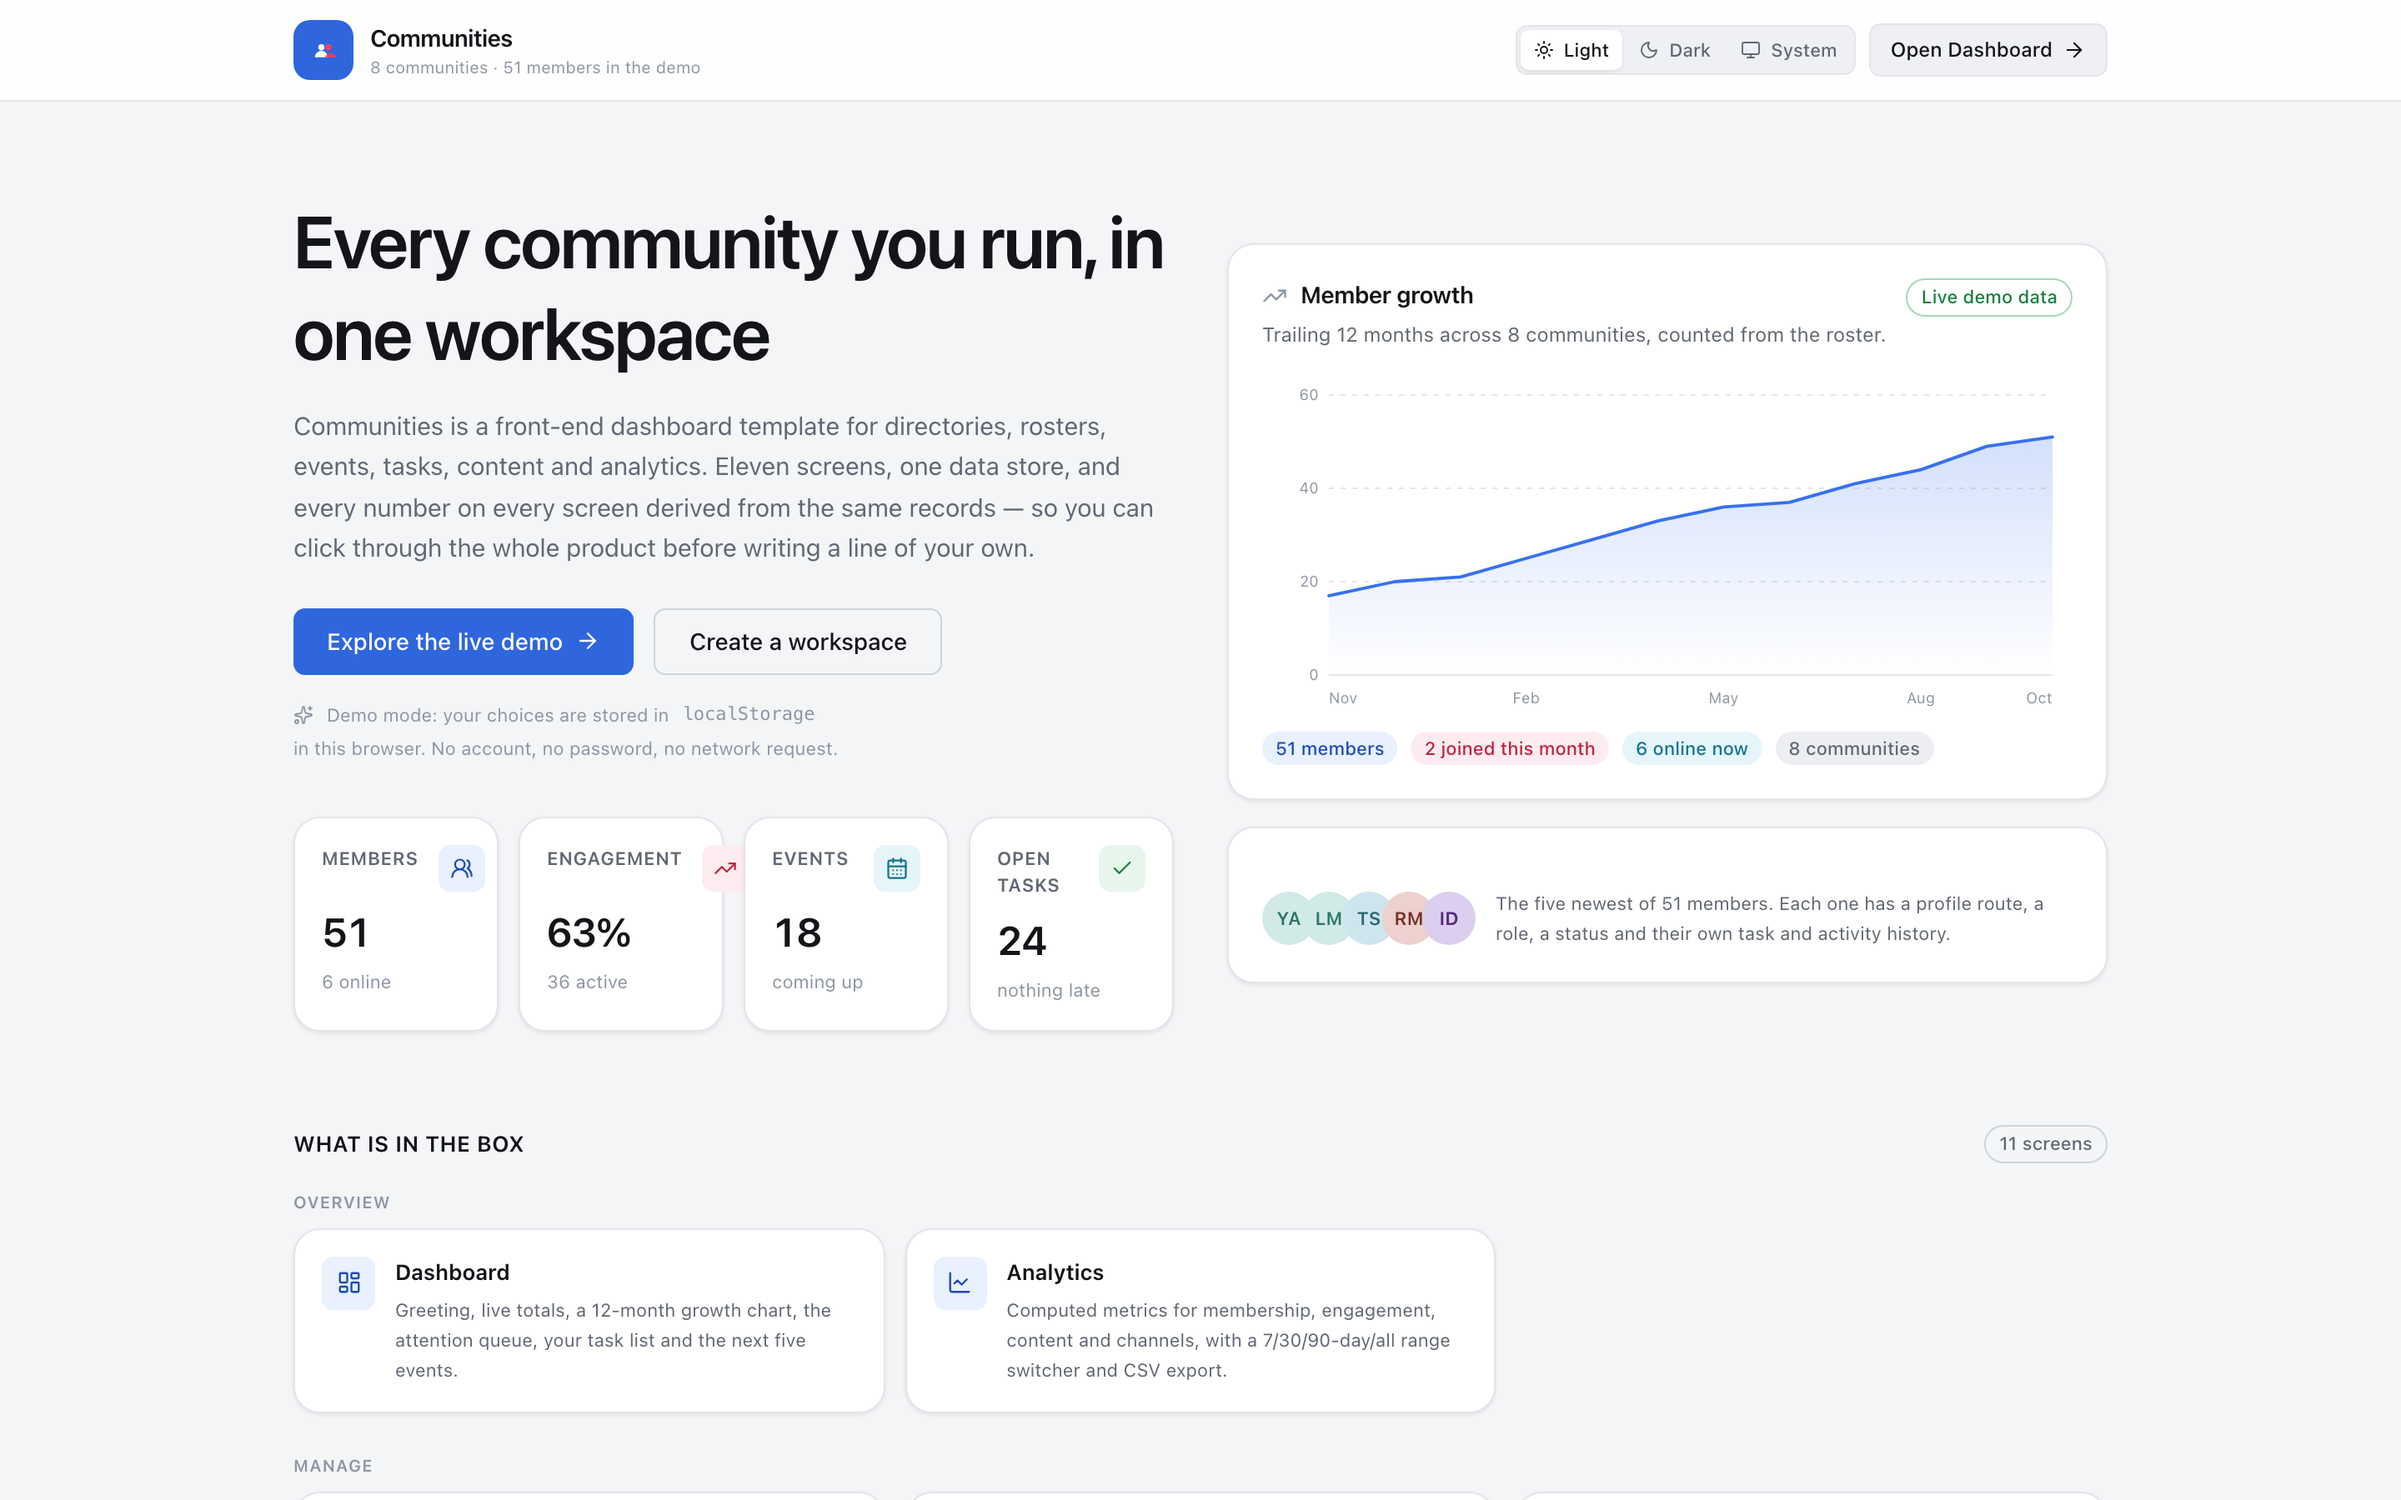
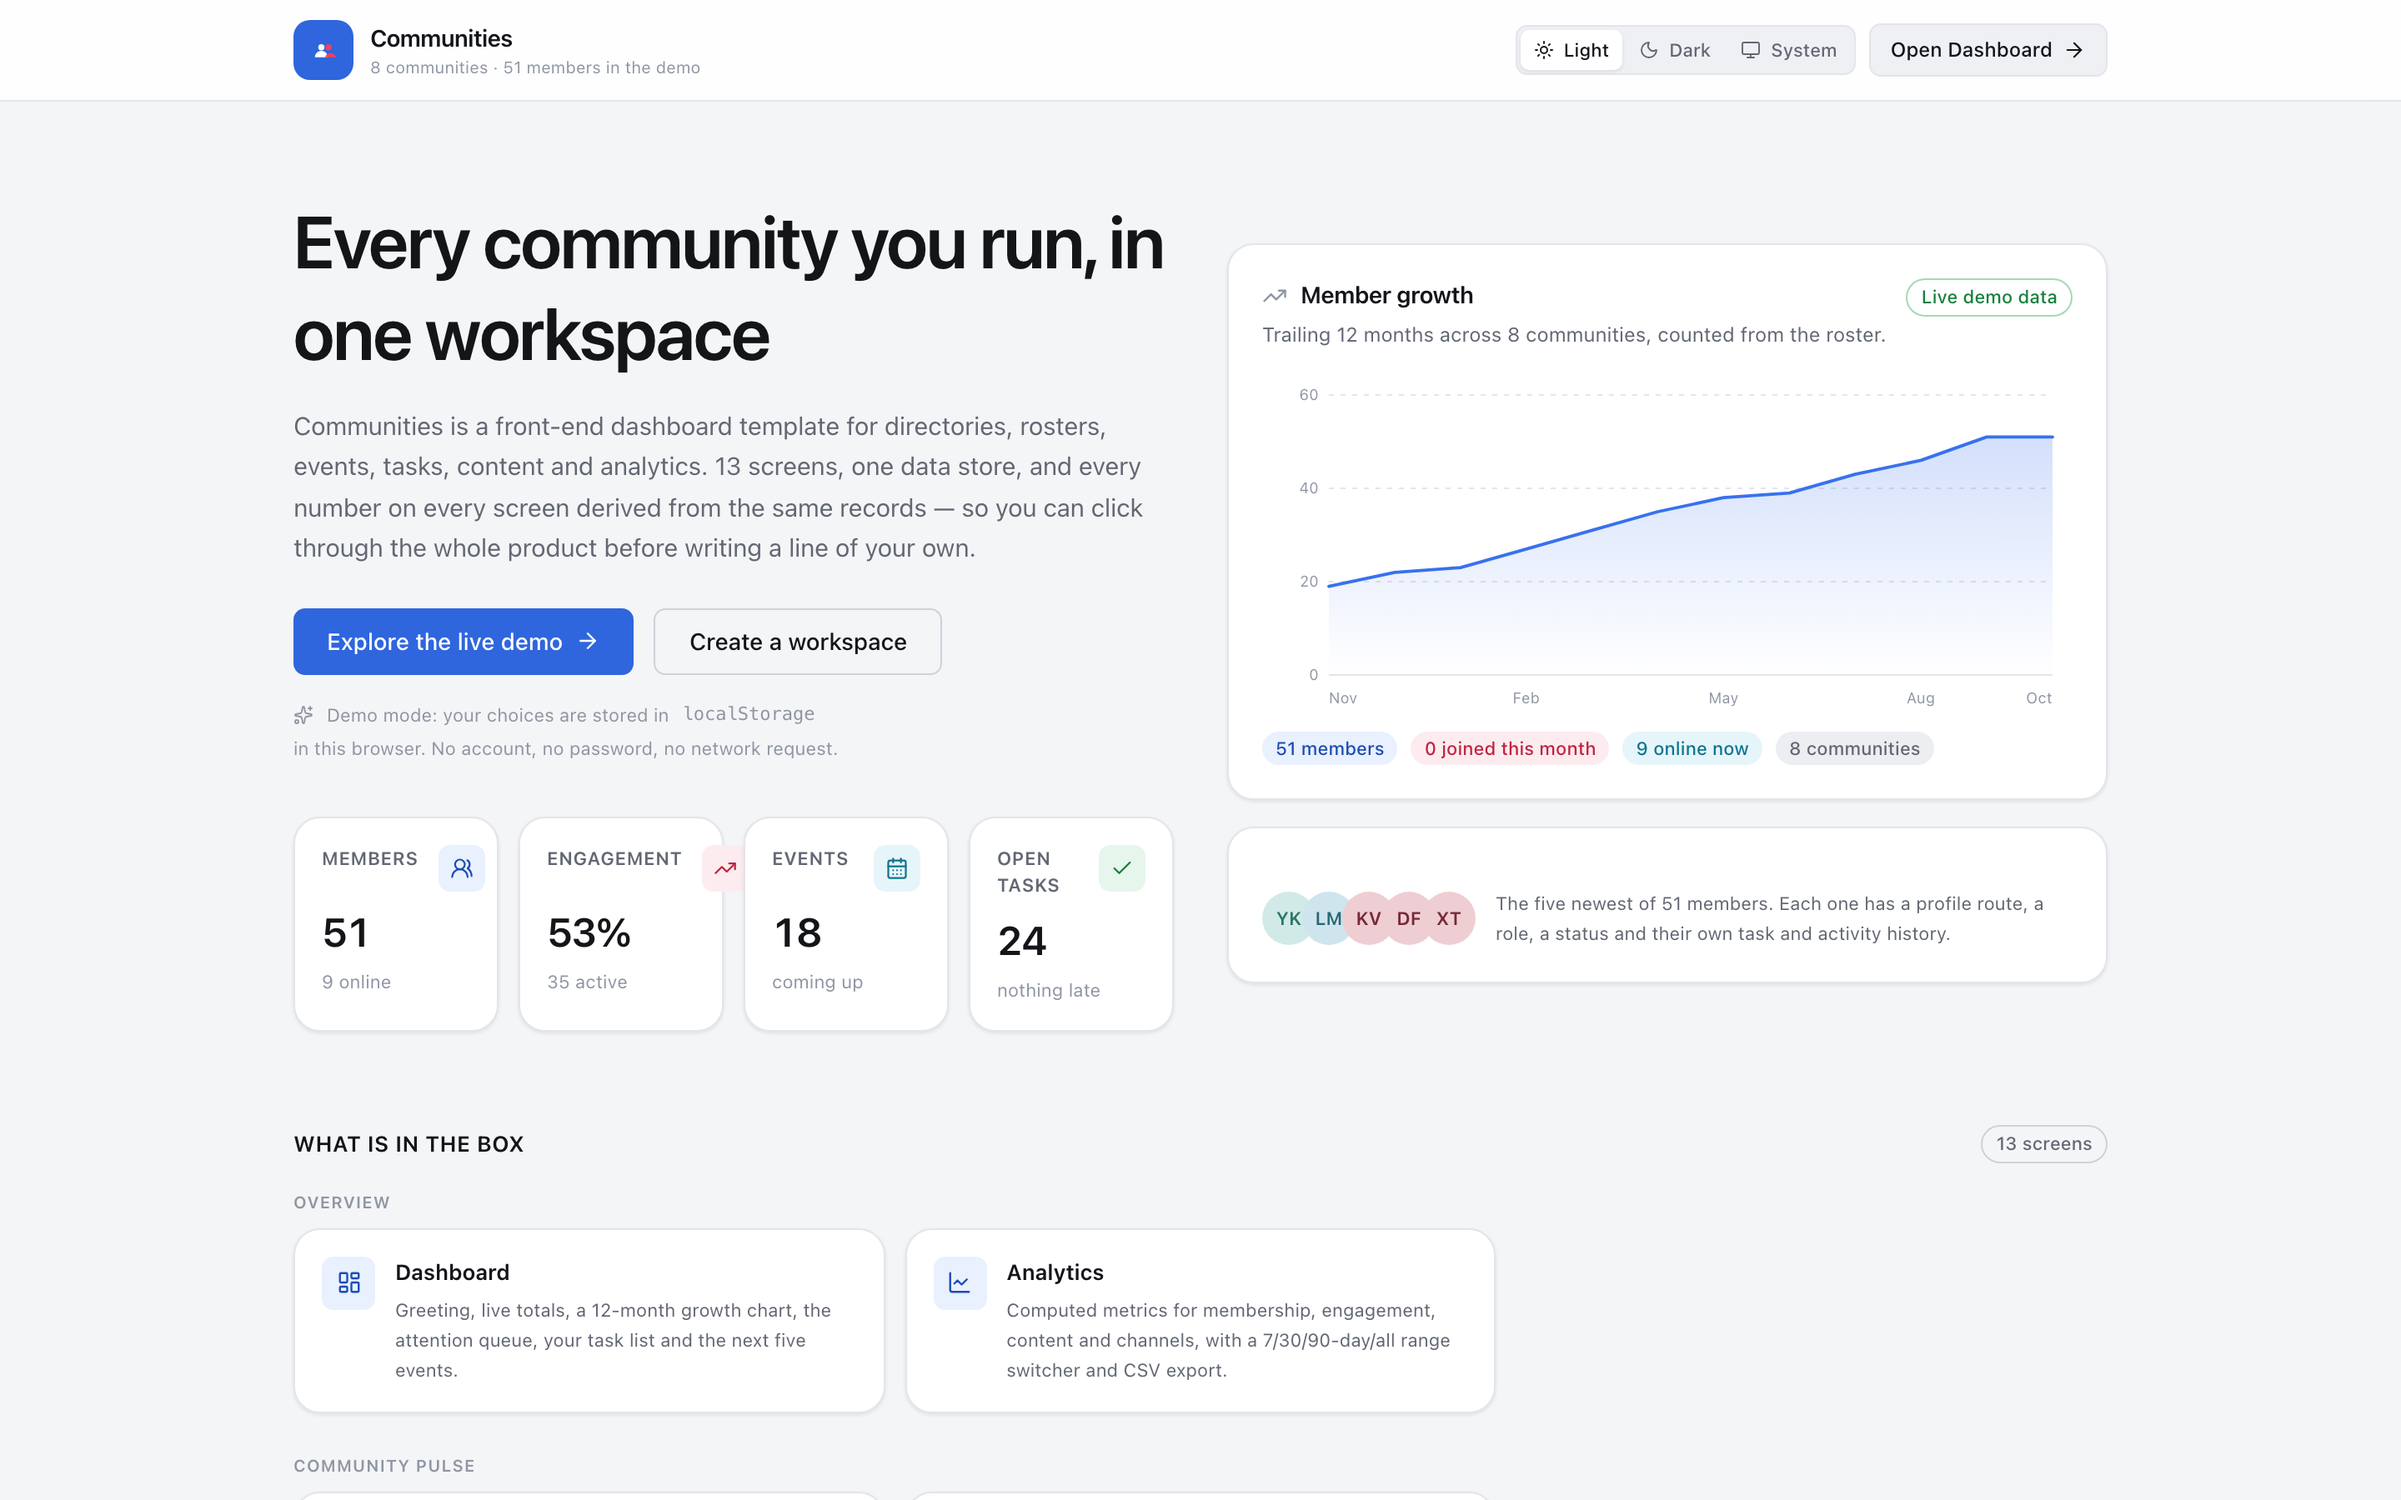
Update product preview screenshots and documentation

diff --git a/docs/ui8-submission.md b/docs/ui8-submission.md
@@ -137,28 +137,30 @@ below is rendered in the smoke run at three breakpoints.
 
 ## Suggested screenshots
 
-All 9 subjects map to files that already exist in this repository, captured by
+All 10 subjects map to files that already exist in this repository, captured by
 `npm run smoke` against the running app — not mockups, not retouched.
 
-`previews/` is the curated set shipped with the product — 90 files, all captured from the
-running app. Four page sets hold the same 20 screens numbered in tour order (`00-home` …
-`19-signup`): `desktop/` and `mobile/` in light theme (1440×900 and 390×844), `dark/` and
-`dark-mobile/` in dark theme at the same sizes. `views/` adds 10 alternate states
-(table/agenda/list views, filters, the 90-day range, the unread tab, a search, the
-new-event dialog). The complete 38-shot set per theme per breakpoint lives in `.shots/`
-and `.shots-dark/` (regenerate with the commands below).
+`previews/` is the curated set shipped with the product — 100 files, all captured from the
+running app. Four page sets hold the same 22 screens numbered in tour order (`00-home` …
+`21-signup`, with `03-health` and `04-moderation` in the Community pulse group): `desktop/`
+and `mobile/` in light theme (1440×900 and 390×844), `dark/` and `dark-mobile/` in dark theme
+at the same sizes. `views/` adds 12 alternate states (the health board filtered to at-risk,
+the moderation drawer open on a report, table/agenda/list views, filters, the 90-day range,
+the unread tab, a search and the new-event dialog). The complete 47-shot set per theme per
+breakpoint lives in `.shots/` and `.shots-dark/` (regenerate with the commands below).
 
 | # | Subject | Files |
 | --- | --- | --- |
-| 1 | Main dashboard and analytics | `desktop/01-dashboard.png`, `desktop/02-analytics.png`, `views/20-analytics-range-90d.png` |
-| 2 | Community directory and detail | `desktop/03-communities.png`, `desktop/04-community-detail.png`, `views/21-communities-table-view.png` |
-| 3 | Member management and profile | `desktop/05-members.png`, `desktop/06-member-detail.png`, `views/27-members-invited-grid-view.png` |
-| 4 | Events and calendar | `desktop/07-events.png`, `desktop/08-event-detail.png`, `views/22-events-agenda-view.png`, `views/23-events-new-event-dialog.png` |
-| 5 | Task board | `desktop/09-tasks.png`, `views/24-tasks-list-view.png`, `views/25-tasks-overdue-filter.png` |
-| 6 | Content management | `desktop/10-content.png`, `desktop/11-content-detail.png`, `views/26-content-table-draft-view.png` |
-| 7 | Light and dark themes | `desktop/18-settings-appearance.png`, `dark/01-dashboard.png`, `dark/18-settings-appearance.png`, `dark-mobile/01-dashboard.png` |
-| 8 | Responsive mobile layouts | `mobile/01-dashboard.png`, `mobile/09-tasks.png`, `dark-mobile/04-community-detail.png` — every route has both a light and a dark mobile counterpart |
-| 9 | Reusable components and customisation | `desktop/18-settings-appearance.png`, `desktop/17-settings-overview.png`, `desktop/12-collections.png`, `desktop/14-messages.png` |
+| 1 | Main dashboard and analytics | `desktop/01-dashboard.png`, `desktop/02-analytics.png`, `views/22-analytics-range-90d.png` |
+| 2 | Community pulse — health board & moderation queue | `desktop/03-health.png`, `desktop/04-moderation.png`, `views/24-health-at-risk.png`, `views/25-moderation-drawer.png` |
+| 3 | Community directory and detail | `desktop/05-communities.png`, `desktop/06-community-detail.png`, `views/23-communities-table-view.png` |
+| 4 | Member management and profile | `desktop/07-members.png`, `desktop/08-member-detail.png`, `views/28-members-invited-grid-view.png` |
+| 5 | Events and calendar | `desktop/09-events.png`, `desktop/10-event-detail.png`, `views/26-events-agenda-view.png`, `views/27-events-new-event-dialog.png` |
+| 6 | Task board | `desktop/11-tasks.png`, `views/29-tasks-list-view.png`, `views/30-tasks-overdue-filter.png` |
+| 7 | Content management | `desktop/12-content.png`, `desktop/13-content-detail.png`, `views/31-content-table-draft-view.png` |
+| 8 | Light and dark themes | `desktop/20-settings-appearance.png`, `dark/01-dashboard.png`, `dark/03-health.png`, `dark/20-settings-appearance.png` |
+| 9 | Responsive mobile layouts | `mobile/01-dashboard.png`, `mobile/04-moderation.png`, `dark-mobile/06-community-detail.png` — every route has both a light and a dark mobile counterpart |
+| 10 | Reusable components and customisation | `desktop/20-settings-appearance.png`, `desktop/19-settings-overview.png`, `desktop/14-collections.png`, `desktop/16-messages.png` |
 
 Every subject is answerable from `previews/` alone; the `.shots*` folders exist so a reviewer
 can regenerate the set rather than trust the PNGs.
@@ -219,15 +221,15 @@ Community pulse beats are the point: a moderation decision that visibly moves a 
 
 ## Files the customer receives
 
-`npm run package` writes them into `ui8-upload/` (and `ui8-upload.zip`) — 147 files, 25.3 MB,
-assembled from the allowlist at the top of `scripts/package.mjs`. The directory is source, not a
-build: the customer runs `npm install && npm run dev`.
+`npm run package` writes them into `ui8-upload/` (and `ui8-upload.zip`) — 159 files, 28.2 MB
+(zip 26.3 MB), assembled from the allowlist at the top of `scripts/package.mjs`. The directory is
+source, not a build: the customer runs `npm install && npm run dev`.
 
 ```
 index.html                  vite.config.js            package.json  package-lock.json
 README.md                   .gitignore                LICENSE (picked up automatically once it exists)
 docs/usage-guide.md       docs/ui-kit.md
-previews/                 (90 product screenshots: desktop, mobile, dark, dark-mobile, views)
+previews/                 (100 product screenshots: desktop, mobile, dark, dark-mobile, views)
 scripts/verify.mjs          scripts/smoke.mjs         scripts/package.mjs
 src/
   App.jsx  main.jsx  routes.js  index.css
@@ -295,7 +297,7 @@ Items 1–3 are blockers; 4–6 are quality signals; 7 is the author's own decis
 3. **Choose and add `LICENSE`.** `README.md` currently defers the template licence to the UI8
    listing; the marketplace needs an explicit file before review. Put it at the repository root
    and `npm run package` ships it — the packager deliberately does not invent one.
-4. **Keep `previews/` in step with the code.** The 90 files there were captured from this
+4. **Keep `previews/` in step with the code.** The 100 files there were captured from this
    build; re-run both sets after any UI change, and re-shoot at whatever resolution UI8
    finally asks for:
    `npm run smoke -- --shots .shots --theme light --routes-only` then

diff --git a/README.md b/README.md
@@ -78,20 +78,21 @@ Deep links are honoured everywhere a filter exists: `/members?status=invited`, `
 
 ## Previews
 
-`previews/` holds 90 PNGs captured from the running app — no mockups, nothing staged in an
+`previews/` holds 100 PNGs captured from the running app — no mockups, nothing staged in an
 image editor. Every number, name and date in them is the seeded demo data as it renders today.
 
 | Folder | Contents |
 | --- | --- |
-| `previews/desktop/` | The 20 screens at 1440×900 (2× density), light theme. |
-| `previews/mobile/` | The same 20 screens at 390×844, light theme. |
-| `previews/dark/` | The same 20 screens at 1440×900, dark theme. |
-| `previews/dark-mobile/` | The same 20 screens at 390×844, dark theme. |
-| `previews/views/` | 10 alternate states worth showing buyers: table/agenda/list views, the overdue and draft filters, the 90-day range, the unread tab, a search and the new-event dialog. |
+| `previews/desktop/` | The 22 screens at 1440×900 (2× density), light theme. |
+| `previews/mobile/` | The same 22 screens at 390×844, light theme. |
+| `previews/dark/` | The same 22 screens at 1440×900, dark theme. |
+| `previews/dark-mobile/` | The same 22 screens at 390×844, dark theme. |
+| `previews/views/` | 12 alternate states worth showing buyers: the health board filtered to at-risk, the moderation drawer open on a report, table/agenda/list views, the overdue and draft filters, the 90-day range, the unread tab, a search and the new-event dialog. |
 
-Files are numbered in tour order (`00-home`, `01-dashboard`, … `19-signup`), so each folder reads
-as a walk-through and the four page sets line up name for name. A tablet set (900×700) and the
-remaining deep-link states are regenerable with the commands above.
+Files are numbered in tour order (`00-home`, `01-dashboard`, `02-analytics`, `03-health`,
+`04-moderation`, … `21-signup`), so each folder reads as a walk-through and the four page sets
+line up name for name. A tablet set (900×700) and the remaining deep-link states are
+regenerable with the commands above.
 
 ## Upload package
 
@@ -105,7 +106,7 @@ created itself, and refuses to overwrite one without its marker.
 
 The package is source, not a build — the customer runs `npm install && npm run dev`. A `LICENSE`
 at the repository root is picked up automatically once it exists; add one before submitting if the
-marketplace requires it. `--no-previews` drops the 90 screenshots (57 files, 0.8 MB) for the case
+marketplace requires it. `--no-previews` drops the 100 screenshots (59 files, 0.9 MB) for the case
 where the listing images go up separately.
 
 ## How it is built
